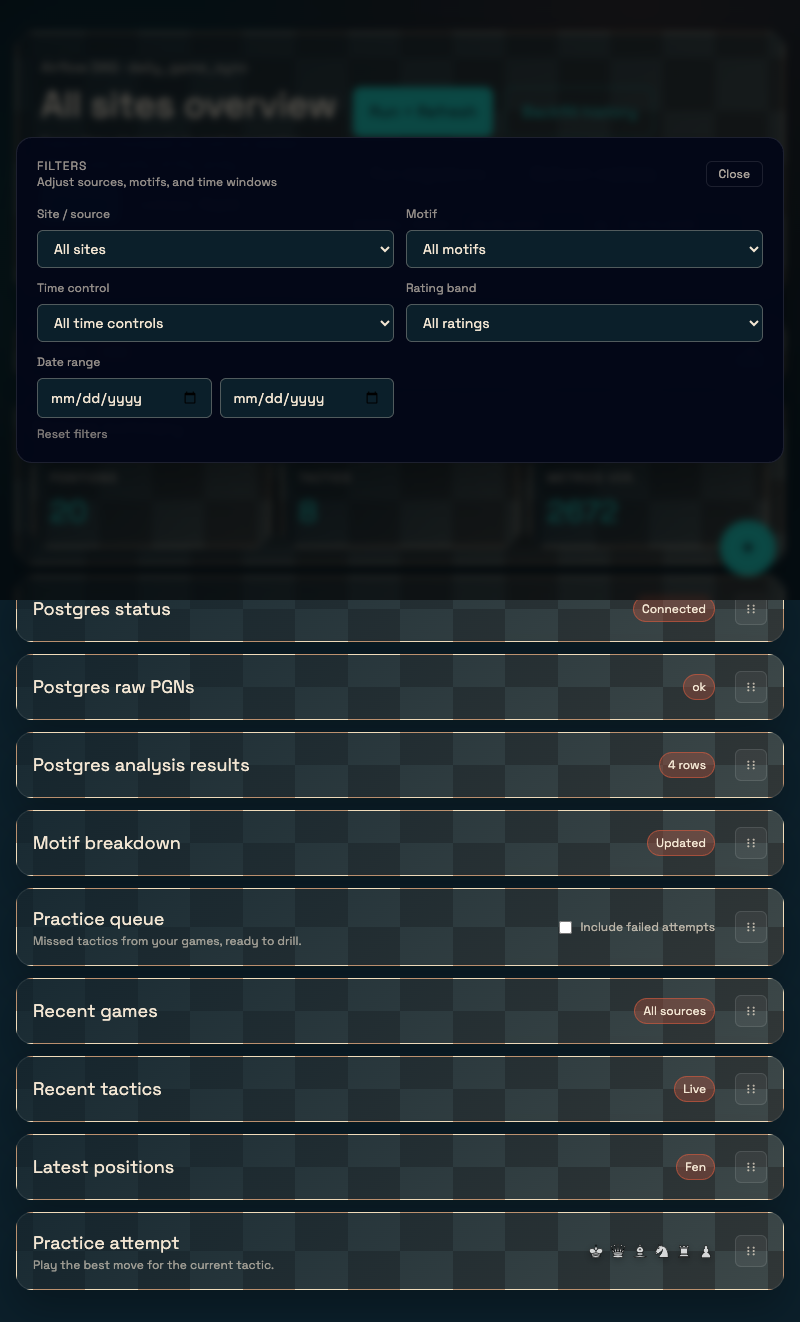
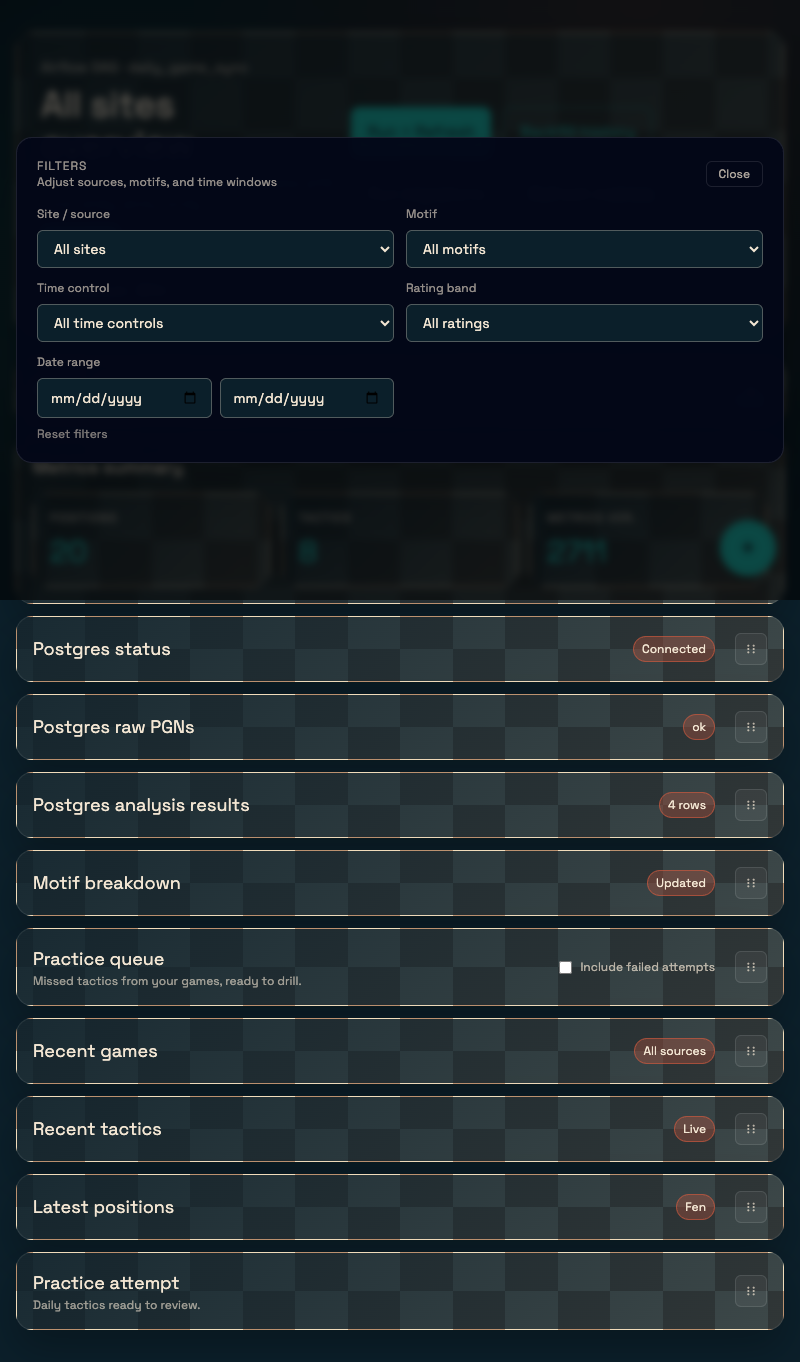
[dev] Remove dashboard filters card
- render filters modal outside dashboard cards

diff --git a/client/src/_components/FiltersCard.tsx b/client/src/_components/FiltersCard.tsx
@@ -35,6 +35,7 @@ interface FiltersCardProps extends BaseCardDragProps {
   modalOpen?: boolean;
   onModalOpenChange?: (open: boolean) => void;
   showOpenButton?: boolean;
+  showCard?: boolean;
 }
 
 export default function FiltersCard({
@@ -54,6 +55,7 @@ export default function FiltersCard({
   modalOpen,
   onModalOpenChange,
   showOpenButton = true,
+  showCard = true,
   ...dragProps
 }: FiltersCardProps) {
   const [internalModalOpen, setInternalModalOpen] = useState(false);
@@ -203,31 +205,33 @@ export default function FiltersCard({
 
   return (
     <>
-      <BaseCard
-        className="p-4"
-        header={
-          <div className="flex flex-wrap items-center justify-between gap-3">
-            <div className="flex items-center gap-2">
-              <h3 className="text-lg font-display text-sand">Filters</h3>
-              <Badge label="Live" />
+      {showCard ? (
+        <BaseCard
+          className="p-4"
+          header={
+            <div className="flex flex-wrap items-center justify-between gap-3">
+              <div className="flex items-center gap-2">
+                <h3 className="text-lg font-display text-sand">Filters</h3>
+                <Badge label="Live" />
+              </div>
+              {showOpenButton ? (
+                <BaseButton
+                  className="rounded-md border border-white/10 px-3 py-1 text-xs text-sand/70 hover:border-white/30"
+                  onClick={() => setModalOpen(true)}
+                  data-testid="filters-open"
+                  disabled={loading}
+                >
+                  Open filters
+                </BaseButton>
+              ) : null}
             </div>
-            {showOpenButton ? (
-              <BaseButton
-                className="rounded-md border border-white/10 px-3 py-1 text-xs text-sand/70 hover:border-white/30"
-                onClick={() => setModalOpen(true)}
-                data-testid="filters-open"
-                disabled={loading}
-              >
-                Open filters
-              </BaseButton>
-            ) : null}
-          </div>
-        }
-        contentClassName="pt-3"
-        {...dragProps}
-      >
-        <Text value="Refine the dashboard using source and motif filters." />
-      </BaseCard>
+          }
+          contentClassName="pt-3"
+          {...dragProps}
+        >
+          <Text value="Refine the dashboard using source and motif filters." />
+        </BaseCard>
+      ) : null}
       {resolvedModalOpen
         ? createPortal(
             <ModalShell

diff --git a/client/src/flows/DashboardFlow.tsx b/client/src/flows/DashboardFlow.tsx
@@ -85,7 +85,6 @@ const DEFAULT_FILTERS = {
   endDate: '',
 };
 const DASHBOARD_CARD_IDS = [
-  'filters',
   'metrics-summary',
   'postgres-status',
   'postgres-raw-pgns',
@@ -1532,32 +1531,6 @@ export default function DashboardFlow() {
 
     return [
       {
-        id: 'filters',
-        label: 'Filters',
-        visible: true,
-        render: (props) => (
-          <FiltersCard
-            source={source}
-            loading={loading}
-            lichessProfile={lichessProfile}
-            chesscomProfile={chesscomProfile}
-            filters={filters}
-            motifOptions={motifOptions}
-            timeControlOptions={timeControlOptions}
-            ratingOptions={ratingOptions}
-            onSourceChange={handleSourceChange}
-            onLichessProfileChange={handleLichessProfileChange}
-            onChesscomProfileChange={handleChesscomProfileChange}
-            onFiltersChange={handleFiltersChange}
-            onResetFilters={handleResetFilters}
-            modalOpen={filtersModalOpen}
-            onModalOpenChange={setFiltersModalOpen}
-            showOpenButton={false}
-            {...props}
-          />
-        ),
-      },
-      {
         id: 'metrics-summary',
         label: 'Metrics summary',
         visible: true,
@@ -1990,6 +1963,25 @@ export default function DashboardFlow() {
         </Droppable>
       </DragDropContext>
       {practiceError ? <ErrorCard message={practiceError} /> : null}
+      <FiltersCard
+        source={source}
+        loading={loading}
+        lichessProfile={lichessProfile}
+        chesscomProfile={chesscomProfile}
+        filters={filters}
+        motifOptions={motifOptions}
+        timeControlOptions={timeControlOptions}
+        ratingOptions={ratingOptions}
+        onSourceChange={handleSourceChange}
+        onLichessProfileChange={handleLichessProfileChange}
+        onChesscomProfileChange={handleChesscomProfileChange}
+        onFiltersChange={handleFiltersChange}
+        onResetFilters={handleResetFilters}
+        modalOpen={filtersModalOpen}
+        onModalOpenChange={setFiltersModalOpen}
+        showOpenButton={false}
+        showCard={false}
+      />
       <FloatingActionButton label="Open settings" actions={floatingActions} />
       <ChessboardModal
         open={chessboardModalOpen}

diff --git a/verification/puppeteer_feature_settings_modal.js b/verification/puppeteer_feature_settings_modal.js
@@ -12,13 +12,13 @@ const {
 const targetUrl = process.env.TACTIX_UI_URL || 'http://localhost:5173/';
 const SCREENSHOT_OPEN_DESKTOP =
   process.env.TACTIX_SCREENSHOT_NAME ||
-  'feature-fab-filters-open-desktop-2026-02-09.png';
+  'feature-fab-filters-open-desktop-2026-02-10.png';
 const SCREENSHOT_CLOSED_DESKTOP =
-  'feature-fab-filters-closed-desktop-2026-02-09.png';
+  'feature-fab-filters-closed-desktop-2026-02-10.png';
 const SCREENSHOT_OPEN_MOBILE =
-  'feature-fab-filters-open-mobile-2026-02-09.png';
+  'feature-fab-filters-open-mobile-2026-02-10.png';
 const SCREENSHOT_CLOSED_MOBILE =
-  'feature-fab-filters-closed-mobile-2026-02-09.png';
+  'feature-fab-filters-closed-mobile-2026-02-10.png';
 
 (async () => {
   console.log('Launching browser...');
@@ -29,6 +29,13 @@ const SCREENSHOT_CLOSED_MOBILE =
   try {
     console.log('Navigating to dashboard...');
     await page.goto(targetUrl, { waitUntil: 'networkidle0' });
+
+    const hasFiltersCard = await page.$(
+      '[data-testid="dashboard-card-filters"]',
+    );
+    if (hasFiltersCard) {
+      throw new Error('Filters card should not render on the dashboard.');
+    }
 
     const outDir = path.resolve(__dirname);
 

diff --git a/verification/integration_feature_settings_modal.js b/verification/integration_feature_settings_modal.js
@@ -15,6 +15,14 @@ const targetUrl = process.env.TACTIX_UI_URL || 'http://localhost:5173/';
   try {
     await page.goto(targetUrl, { waitUntil: 'networkidle0' });
 
+    const hasFiltersCard = await page.evaluate(() =>
+      Boolean(document.querySelector('[data-testid="dashboard-card-filters"]')),
+    );
+
+    if (hasFiltersCard) {
+      throw new Error('Filters card should not render on the dashboard.');
+    }
+
     const fabReady = await page.evaluate(() => {
       const toggle = document.querySelector('[data-testid="fab-toggle"]');
       const action = document.querySelector('[data-testid="filters-open"]');

diff --git a/client/src/flows/DashboardFlow.test.tsx b/client/src/flows/DashboardFlow.test.tsx
@@ -386,6 +386,10 @@ describe('DashboardFlow', () => {
 
     await waitForDashboardLoad();
 
+    expect(
+      screen.queryByTestId('dashboard-card-filters'),
+    ).not.toBeInTheDocument();
+
     await waitFor(() => {
       expect(screen.getAllByTestId(/recent-games-row-/)).toHaveLength(2);
       expect(screen.getAllByTestId(/practice-queue-row-/)).toHaveLength(2);
